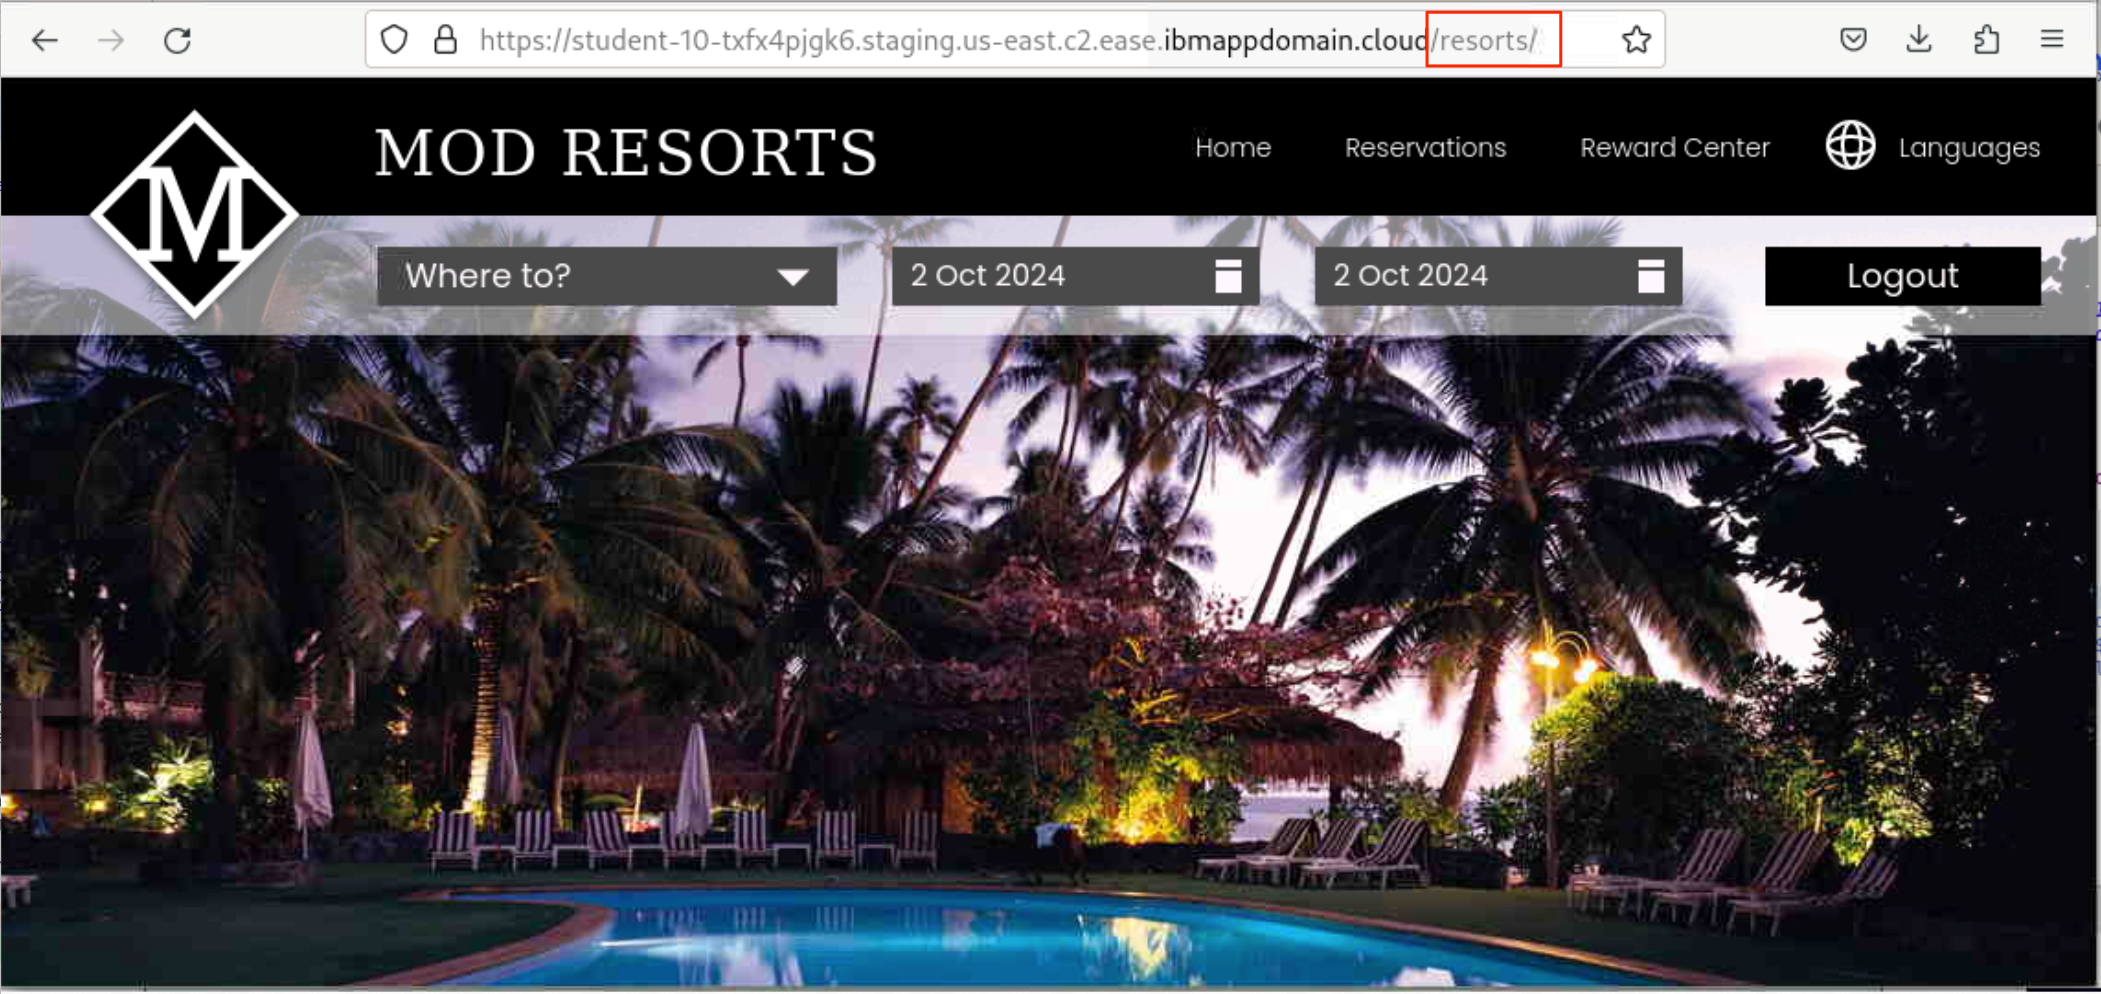
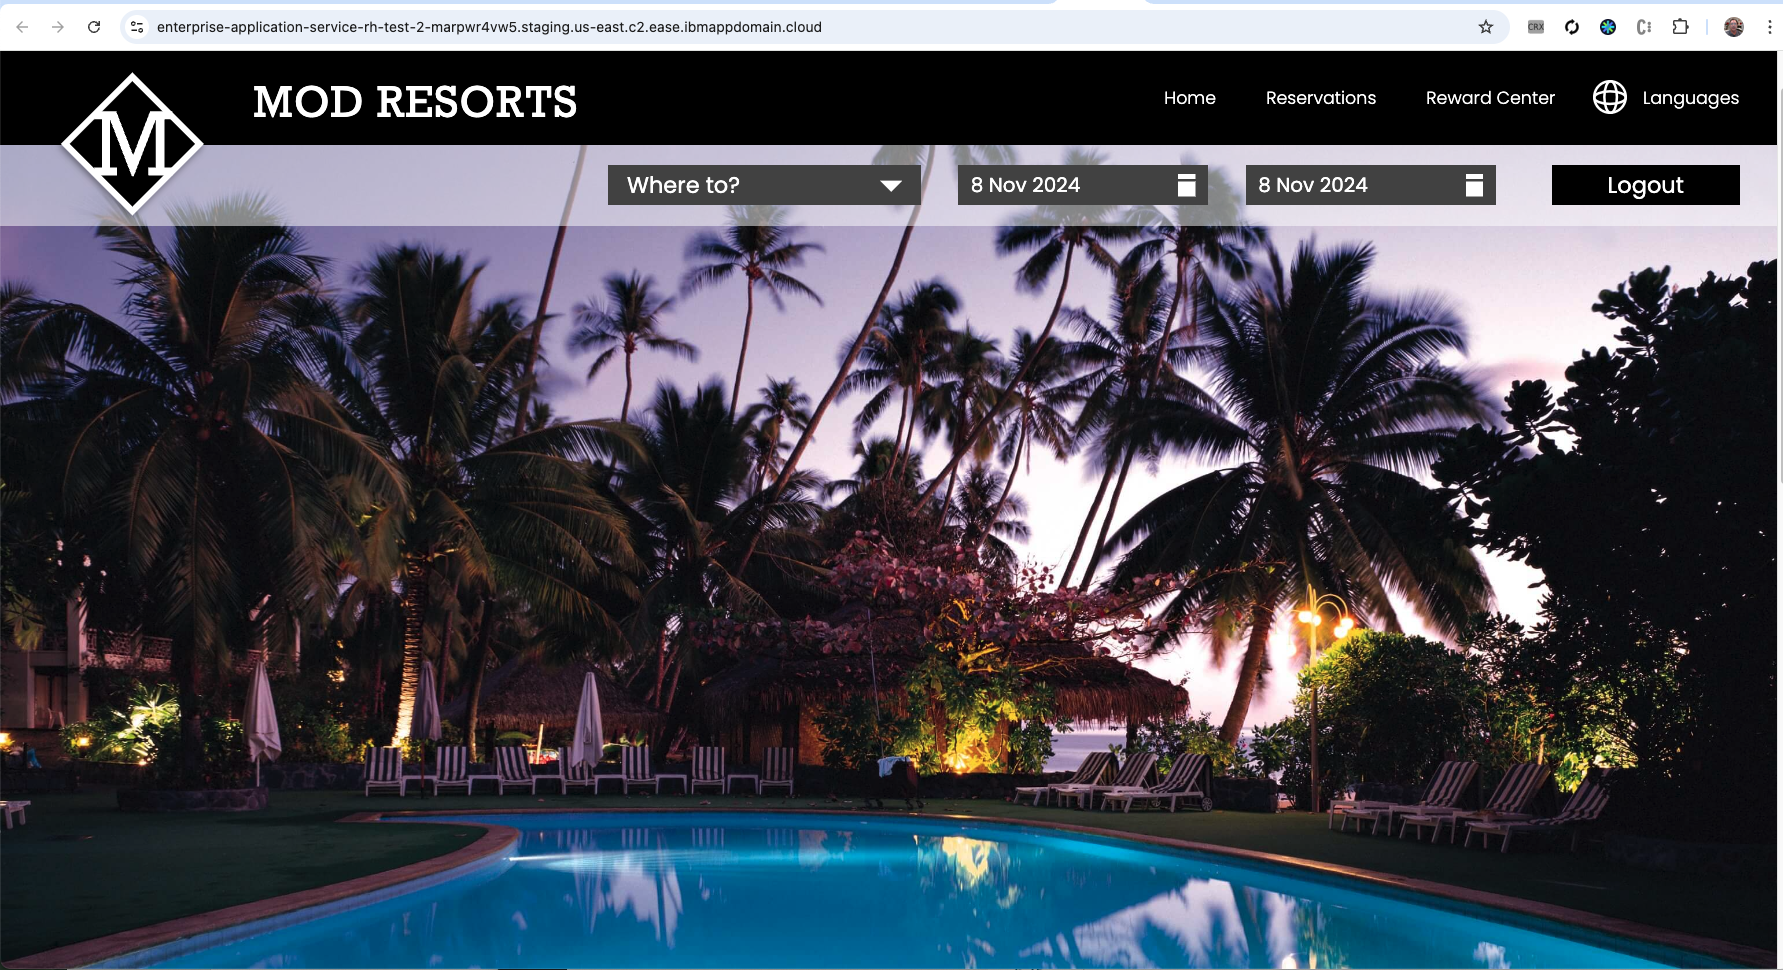
update readme

diff --git a/README.md b/README.md
@@ -587,7 +587,7 @@ Upon succesful completion of the **Deployment**, Enterprise Application Service 
 
     Click on the **Release build** link to bring up the **Build** panel.
     
-    At the bottom of the panel is a build log. For our ModResorts app, you can see here that it was successfully started. 
+    At the bottom of the panel is a build log. For our ModResorts app, you can see here that it was successfully built. 
     
     It also provides a button to **Deploy to production**, which will be discussed in a later step.
 
@@ -596,10 +596,6 @@ Upon succesful completion of the **Deployment**, Enterprise Application Service 
     </div>
 
 1. To view the running application, return to the **Environments -> Staging** panel and click on **Actions** -> **Open application**.
-
-    Initially, you will get a `404` error because a context path must be provided.
-
-    Add **/resorts** to the end of the URL to provide the proper path.
 
     <div align="center">
         <img src="./images/saas-modresorts.png">
@@ -687,7 +683,7 @@ The steps required will follow the same flow as described above.
     
 11. **[Service]** Click **Environments** -> **Staging** to view the staging environment.
     
-12. **[Service]** Click on **Actions** -> **Open application** to view the application. [Don't forget to add the **/resorts** context to the URL]
+12. **[Service]** Click on **Actions** -> **Open application** to view the application. 
 
 ### Promote to production
 
